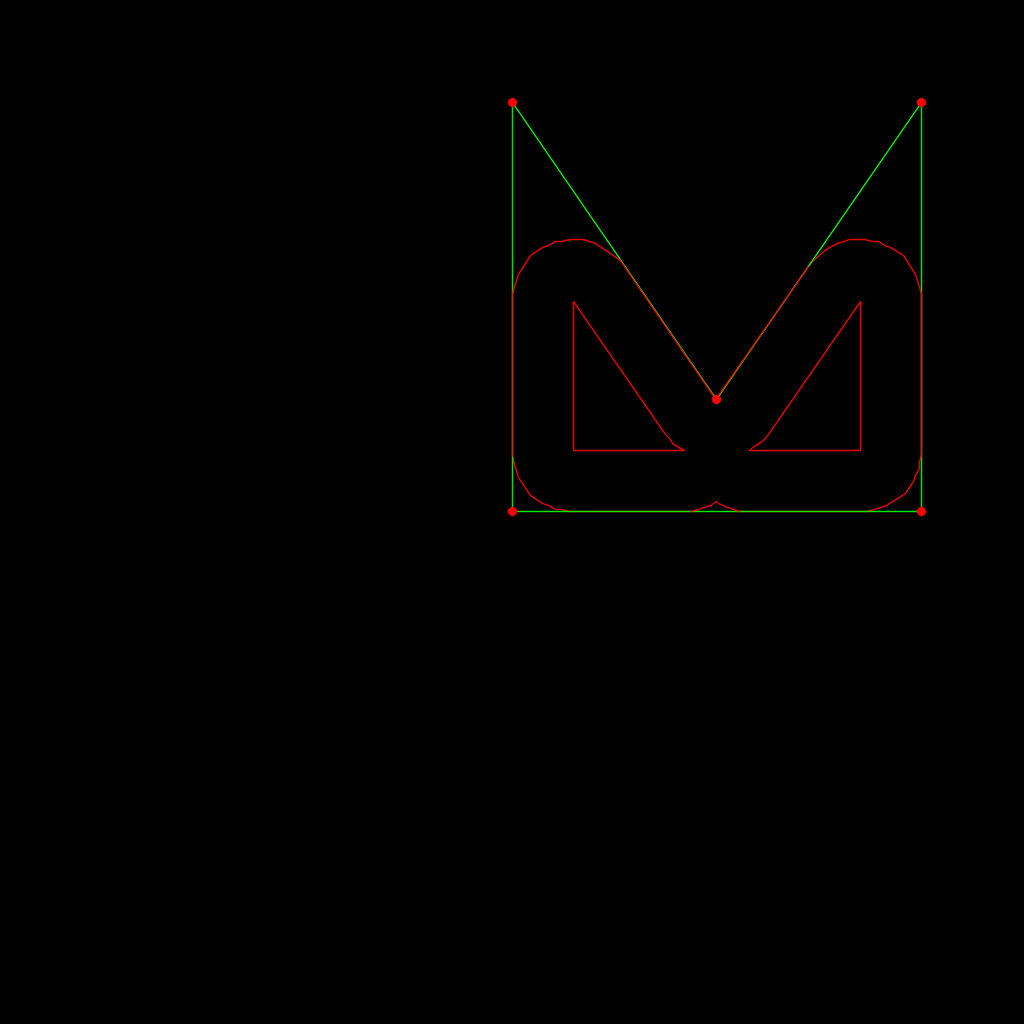
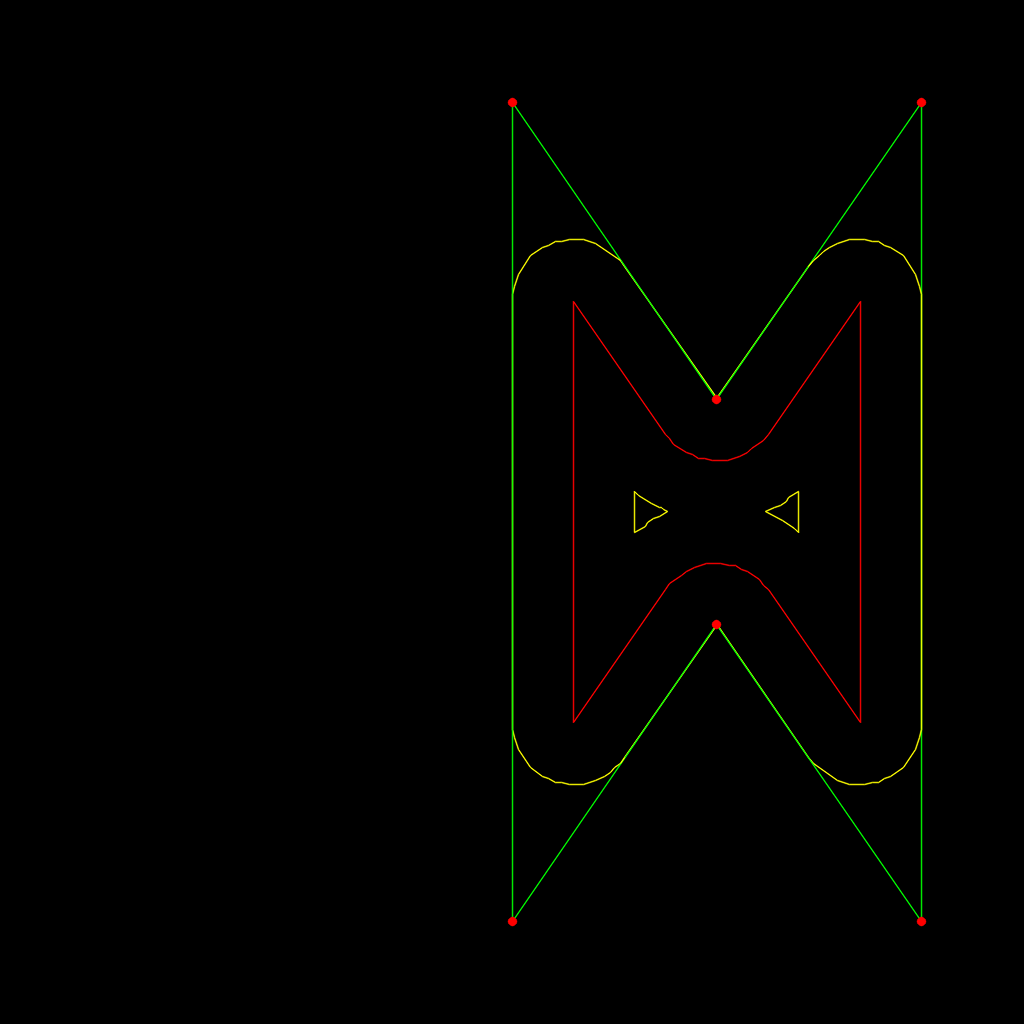
toolcontour linetype

diff --git a/src/main/kotlin/main.kt b/src/main/kotlin/main.kt
@@ -1,4 +1,3 @@
-import clipper2.*
 import de.lighti.clipper.Clipper
 import de.lighti.clipper.ClipperOffset
 import de.lighti.clipper.Path
@@ -188,7 +187,7 @@ fun elementsToPath(elements: List<Element>) : Paths{
     return paths
 }
 
-fun Builder.offsetPolygons(paths : Paths, delta: Double): Paths {
+fun Builder.offsetPolygons(paths : Paths, delta: Double, outerContour: Boolean = false): Paths {
     val scaler: Double = 100.0
 
     val offset = ClipperOffset(2.0,0.05)
@@ -201,6 +200,8 @@ fun Builder.offsetPolygons(paths : Paths, delta: Double): Paths {
 
     val lines = mutableListOf<Line>()
 
+    val lineType = if(outerContour) LineType.ToolContour else LineType.Construction
+
 
     for (path in paths) {
         var last: Point? = null
@@ -211,7 +212,7 @@ fun Builder.offsetPolygons(paths : Paths, delta: Double): Paths {
 
 
             if (last != null) {
-                lines.add(line(last, thePoint,  LineType.Construction))
+                lines.add(line(last, thePoint,  lineType))
             } else {
                 first = thePoint
             }
@@ -221,7 +222,7 @@ fun Builder.offsetPolygons(paths : Paths, delta: Double): Paths {
 
 
         if (last != null && first != null) {
-            lines.add(line(last, first,  LineType.Construction))
+            lines.add(line(last, first,  lineType))
         }
     }
 
@@ -245,8 +246,9 @@ fun main(args: Array<String>) {
         pointOnArcEnd(B, arc)*/
 
         val poly = polygon(
-            point(0.0, 0.0),
-            point(2.0, 0.0),
+            point(0.0, -2.0),
+            point(1.0, -0.55),
+            point(2.0, -2.0),
             point(2.0, 2.0),
             point(1.0, 0.55),
             point(0.0, 2.0),
@@ -255,7 +257,8 @@ fun main(args: Array<String>) {
         val paths = offsetPolygons(elementsToPath(poly), -0.3)
 
 
-        offsetPolygons(paths, 0.3)
+        offsetPolygons(paths, 0.3, true)
+        offsetPolygons(paths, -0.3, true)
 
         //angle(lineA, lineB, const(179.0 unit deg))
     }

diff --git a/src/main/kotlin/Canvas.kt b/src/main/kotlin/Canvas.kt
@@ -24,12 +24,16 @@ class Canvas {
         return Point( x * scale + size/2,y * scale + size/2)
     }
 
-    fun line(x: Double, y: Double, x2: Double, y2: Double, construction: Boolean = false){
+    fun line(x: Double, y: Double, x2: Double, y2: Double, construction: LineType){
         Imgproc.line(
             matrix,  //Matrix obj of the image
             getPoint(x,y),  //p1
             getPoint(x2,y2),  //p2
-            if(construction) Scalar(0.0, 0.0, 255.0) else Scalar(0.0,255.0,0.0),  //Scalar object for color
+            when(construction){
+                LineType.Construction ->Scalar(0.0, 0.0, 255.0)
+                LineType.Normal -> Scalar(0.0,255.0,0.0)
+                LineType.ToolContour -> Scalar(0.0,255.0,255.0)
+            } ,  //Scalar object for color
             1, //Thickness of the line
             Imgproc.LINE_AA
         )

diff --git a/src/main/kotlin/Sketch.kt b/src/main/kotlin/Sketch.kt
@@ -92,7 +92,7 @@ class Sketch {
         val canvas = Canvas()
         for (element in elements) {
             if (element is Line) {
-                canvas.line(element.a.x.value, element.a.y.value, element.b.x.value, element.b.y.value, element.type == LineType.Construction)
+                canvas.line(element.a.x.value, element.a.y.value, element.b.x.value, element.b.y.value, element.type )
             } else if (element is Circle) {
                 if (element.start == null || element.end == null) {
                     canvas.circle(element.center.x.value, element.center.y.value, element.rad.value)

diff --git a/src/main/kotlin/Constraint.kt b/src/main/kotlin/Constraint.kt
@@ -77,7 +77,7 @@ data class Point(override val x: Value, override val y: Value) : AbstractPoint, 
 }
 
 enum class LineType{
-    Normal, Construction
+    Normal, Construction, ToolContour
 }
 
 data class Line(val a: Point, val b: Point, val type: LineType = LineType.Normal) : Element
